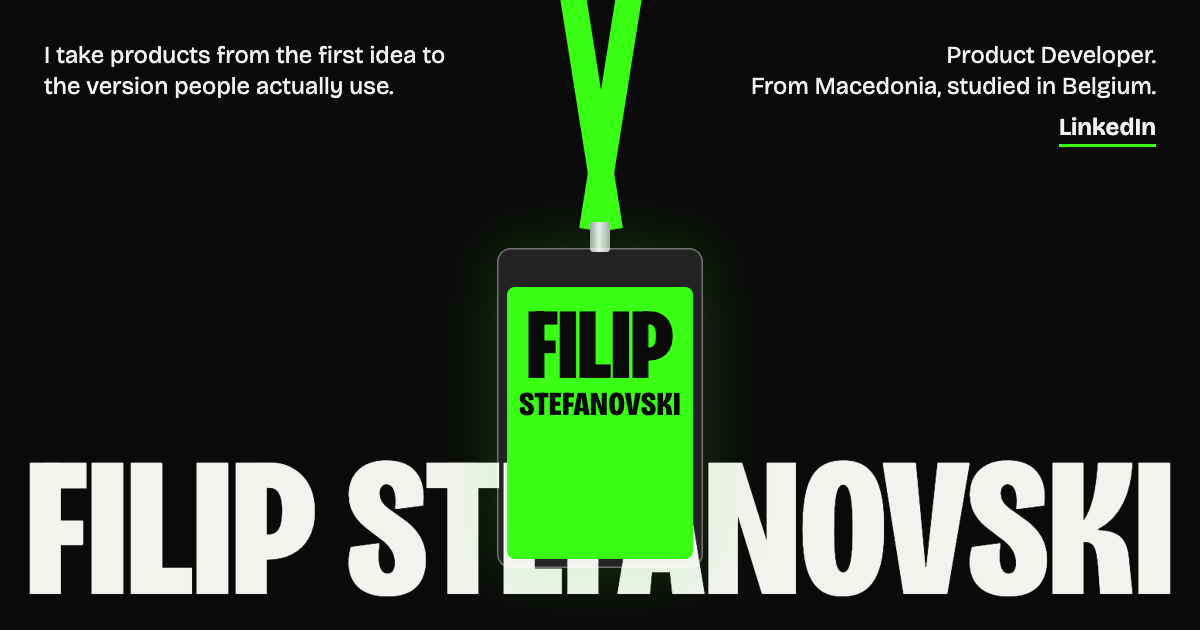
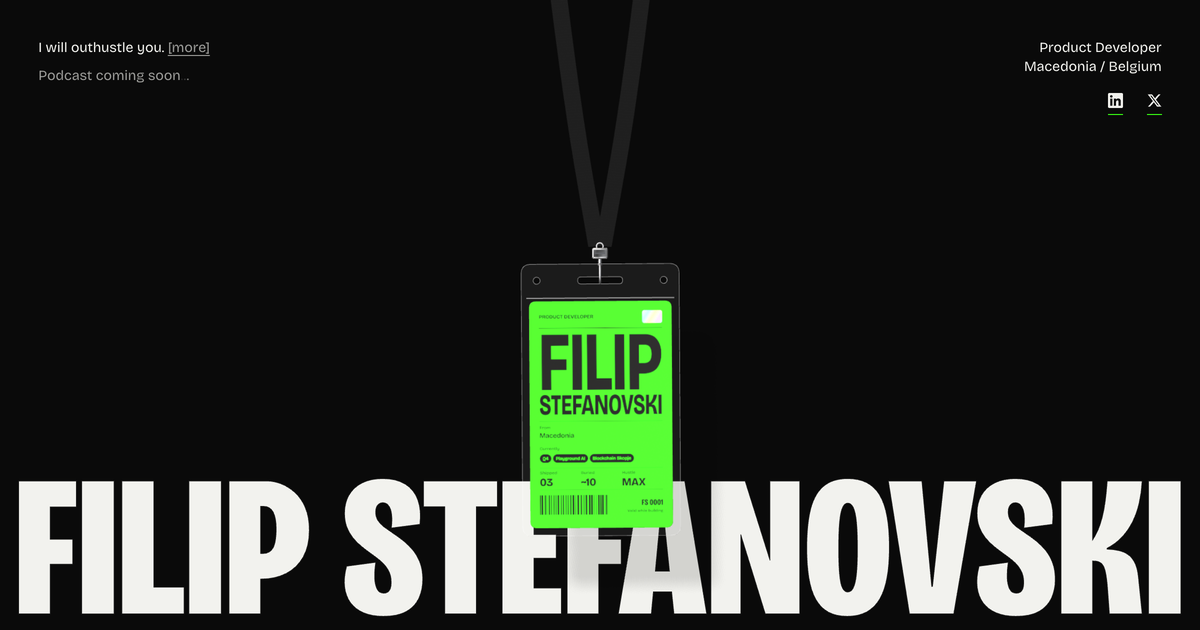
Throw counter Easter egg; share preview from the landing badge

Changed region(s): [[0.0, 0.0, 0.9867, 0.9952], [0.6167, 0.0603, 0.9867, 0.2413], [0.0308, 0.0603, 0.37, 0.1508]]

diff --git a/src/components/badge/BadgeScene.tsx b/src/components/badge/BadgeScene.tsx
@@ -1,7 +1,7 @@
 "use client";
 
 import * as THREE from "three";
-import { useEffect, useMemo, useRef, useState } from "react";
+import { useCallback, useEffect, useMemo, useRef, useState } from "react";
 import { Canvas, extend, useFrame, useThree, type ThreeElement, type ThreeEvent } from "@react-three/fiber";
 import { Environment, Lightformer, RoundedBox } from "@react-three/drei";
 import {
@@ -33,6 +33,7 @@ const SPRING_K = 240; // drag spring stiffness (per unit mass)
 const SPRING_C = 26; // drag spring damping
 const MAX_ACCEL = 420;
 const MAX_LINVEL = 12;
+const THROW_SPEED = 7; // release speed that counts as a throw
 const MAX_ANGVEL = 7;
 const YAW_RETURN = 3.2; // how strongly the face turns back to the viewer
 
@@ -41,6 +42,8 @@ export type BadgeSceneProps = {
   spin: number;
   onReady: () => void;
   onDragChange?: (dragging: boolean) => void;
+  /** Fired when the card is let go at speed */
+  onThrow?: () => void;
 };
 
 type Textures = { front: THREE.Texture; back: THREE.Texture; strap: THREE.Texture };
@@ -121,11 +124,13 @@ function Badge({
   spin,
   onReady,
   onDragChange,
+  onThrow,
 }: {
   textures: Textures;
   spin: number;
   onReady: () => void;
   onDragChange?: (d: boolean) => void;
+  onThrow?: () => void;
 }) {
   const fixedL = useRef<RapierRigidBody>(null!);
   const l1 = useRef<RapierRigidBody>(null!);
@@ -171,13 +176,20 @@ function Badge({
     };
   }, [hovered, dragging]);
 
+  // Let go of the card; a fast release counts as a throw.
+  const endDrag = useCallback(() => {
+    grab.current = null;
+    setDragging(false);
+    onDragChange?.(false);
+    const v = card.current?.linvel();
+    if (v && Math.hypot(v.x, v.y, v.z) > THROW_SPEED) onThrow?.();
+  }, [onDragChange, onThrow]);
+
   // Release on any global end of interaction (belt and braces for capture loss).
   useEffect(() => {
     const release = () => {
       if (!grab.current) return;
-      grab.current = null;
-      setDragging(false);
-      onDragChange?.(false);
+      endDrag();
     };
     const el = gl.domElement;
     const blockScroll = (e: TouchEvent) => {
@@ -193,7 +205,7 @@ function Badge({
       window.removeEventListener("blur", release);
       el.removeEventListener("touchmove", blockScroll);
     };
-  }, [gl, onDragChange]);
+  }, [gl, endDrag]);
 
   // Keyboard / button spin: a real torque impulse.
   useEffect(() => {
@@ -321,9 +333,7 @@ function Badge({
   const onUp = (e: ThreeEvent<PointerEvent>) => {
     if (!grab.current || grab.current.pointerId !== e.pointerId) return;
     (e.target as unknown as Element).releasePointerCapture?.(e.pointerId);
-    grab.current = null;
-    setDragging(false);
-    onDragChange?.(false);
+    endDrag();
   };
 
   const segProps = {
@@ -491,6 +501,7 @@ function Scene(props: BadgeSceneProps & { physicsOn: boolean }) {
             spin={props.spin}
             onReady={props.onReady}
             onDragChange={props.onDragChange}
+            onThrow={props.onThrow}
           />
         )}
       </Physics>

diff --git a/src/components/badge/BadgeStage.tsx b/src/components/badge/BadgeStage.tsx
@@ -39,6 +39,9 @@ export default function BadgeStage() {
   const [pageVisible, setPageVisible] = useState(true);
   const [spin, setSpin] = useState(0);
   const [dragging, setDragging] = useState(false);
+  const [throws, setThrows] = useState(0);
+  const [showThrows, setShowThrows] = useState(false);
+  const hideThrows = useRef<ReturnType<typeof setTimeout>>(undefined);
 
   // Decide between the live scene and the static badge.
   useEffect(() => {
@@ -64,6 +67,13 @@ export default function BadgeStage() {
   }, []);
 
   const onReady = useCallback(() => setReady(true), []);
+  const onThrow = useCallback(() => {
+    setThrows((n) => n + 1);
+    setShowThrows(true);
+    clearTimeout(hideThrows.current);
+    hideThrows.current = setTimeout(() => setShowThrows(false), 3200);
+  }, []);
+  useEffect(() => () => clearTimeout(hideThrows.current), []);
   const onError = useCallback(() => setMode("static"), []);
   const live = mode === "live";
 
@@ -85,10 +95,21 @@ export default function BadgeStage() {
               spin={spin}
               onReady={onReady}
               onDragChange={setDragging}
+              onThrow={onThrow}
             />
           </SceneBoundary>
         </div>
       )}
+      {/* Easter egg: flick the badge hard enough and it keeps count */}
+      <p className={styles.throws} data-on={showThrows ? "true" : "false"} aria-live="polite">
+        {throws > 0 && (
+          <>
+            thrown {throws === 1 ? "once" : `${throws} times`}.
+            <br />
+            still here.
+          </>
+        )}
+      </p>
       {live && (
         <button
           type="button"

diff --git a/src/components/badge/badge.module.css b/src/components/badge/badge.module.css
@@ -29,6 +29,29 @@
   opacity: 0;
 }
 
+/* Throw counter, on the right edge, only after a real throw */
+.throws {
+  position: absolute;
+  right: var(--gutter);
+  top: 44%;
+  margin: 0;
+  color: var(--accent);
+  font-size: clamp(13px, 1.1vw, 16px);
+  font-weight: 600;
+  line-height: 1.35;
+  text-align: right;
+  pointer-events: none;
+  opacity: 0;
+  transform: translateY(6px);
+  transition:
+    opacity 400ms var(--ease-out),
+    transform 400ms var(--ease-out);
+}
+.throws[data-on="true"] {
+  opacity: 1;
+  transform: none;
+}
+
 /* Spin control: invisible until focused with the keyboard */
 .spin {
   position: absolute;
